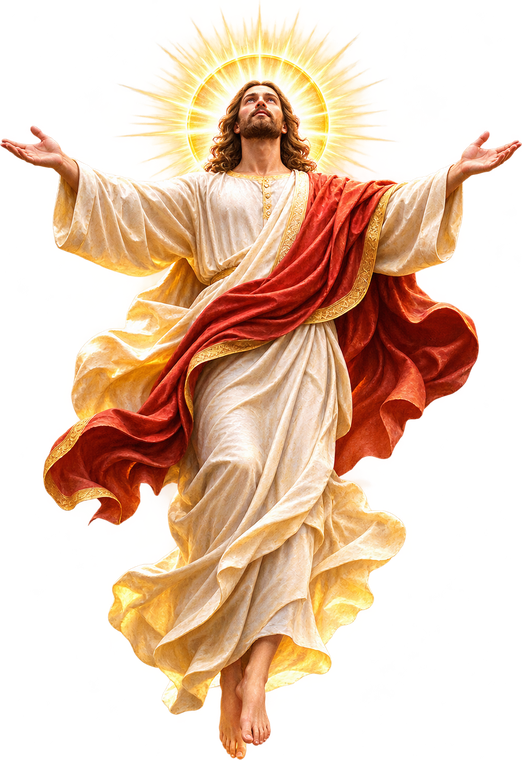
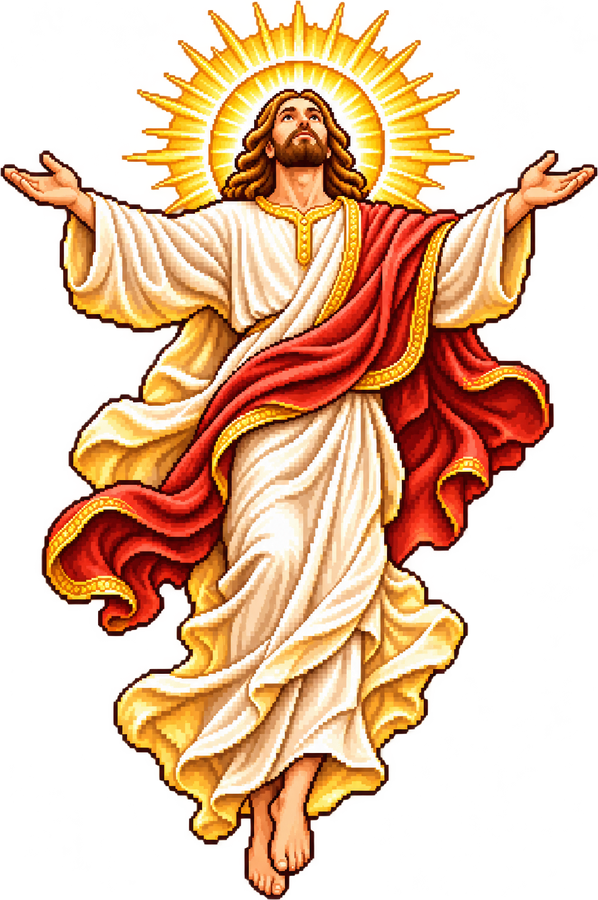
Công Giáo Live 1.0.10: new 8-bit Jesus image
Claude-Session: https://claude.ai/code/session_018LSVv66js5ngJs473iHyim

diff --git a/app/stage/stage.js b/app/stage/stage.js
@@ -689,7 +689,7 @@ function drawBgFigures() {
       const x = f.x + Math.sin(now * sp * 0.5 + ph) * (f.sway || 0), y = f.y + Math.sin(now * sp + ph) * (f.bob || 0);
       if (f.glow && fxOn()) { ctx.save(); ctx.globalCompositeOperation = 'lighter'; drawGlow(x, y, h * 0.62, f.glow, 0.22 * w * (0.85 + 0.15 * Math.sin(now * 1.3 + ph))); ctx.restore(); }
       ctx.save(); ctx.globalAlpha = w * (f.alpha ?? 1); ctx.translate(x, y); if (f.flip) ctx.scale(-1, 1); if (f.tilt) ctx.rotate(Math.sin(now * 0.6 + ph) * f.tilt);
-      if (isPixel()) { // hình Chúa / thiên thần dạng 8-bit, cùng cỡ điểm ảnh với ảnh nền
+      if (isPixel() && !f.pixelArt) { // hình Chúa / thiên thần dạng 8-bit, cùng cỡ điểm ảnh với ảnh nền
         const n = Math.max(120, Math.min(540, (cfg.style && cfg.style.bgPixels) || 270)), ph = Math.round(h * n / W);
         if (!im._pix || im._pixH !== ph) { im._pix = pixelateCanvas(im, ph * wd / h, ph, { levels: 8, saturate: 1.15, alphaCut: 90 }); im._pixH = ph; }
         const pc = im._pix, k = h / ph, pd = pc.pad || 0; ctx.imageSmoothingEnabled = false;
